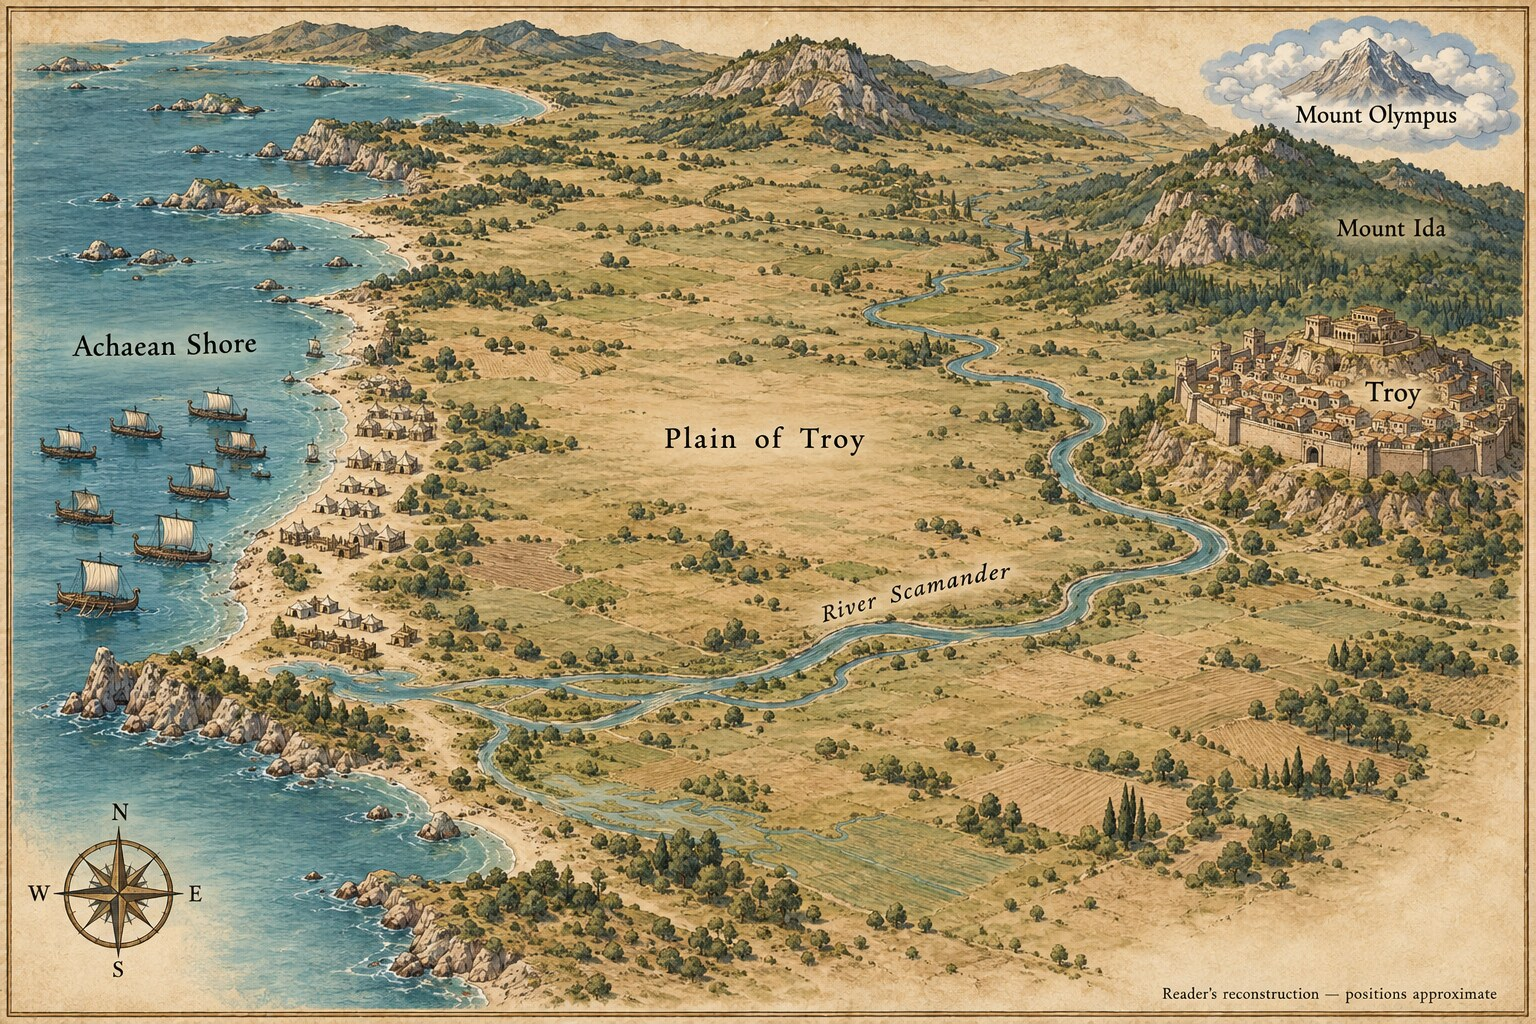
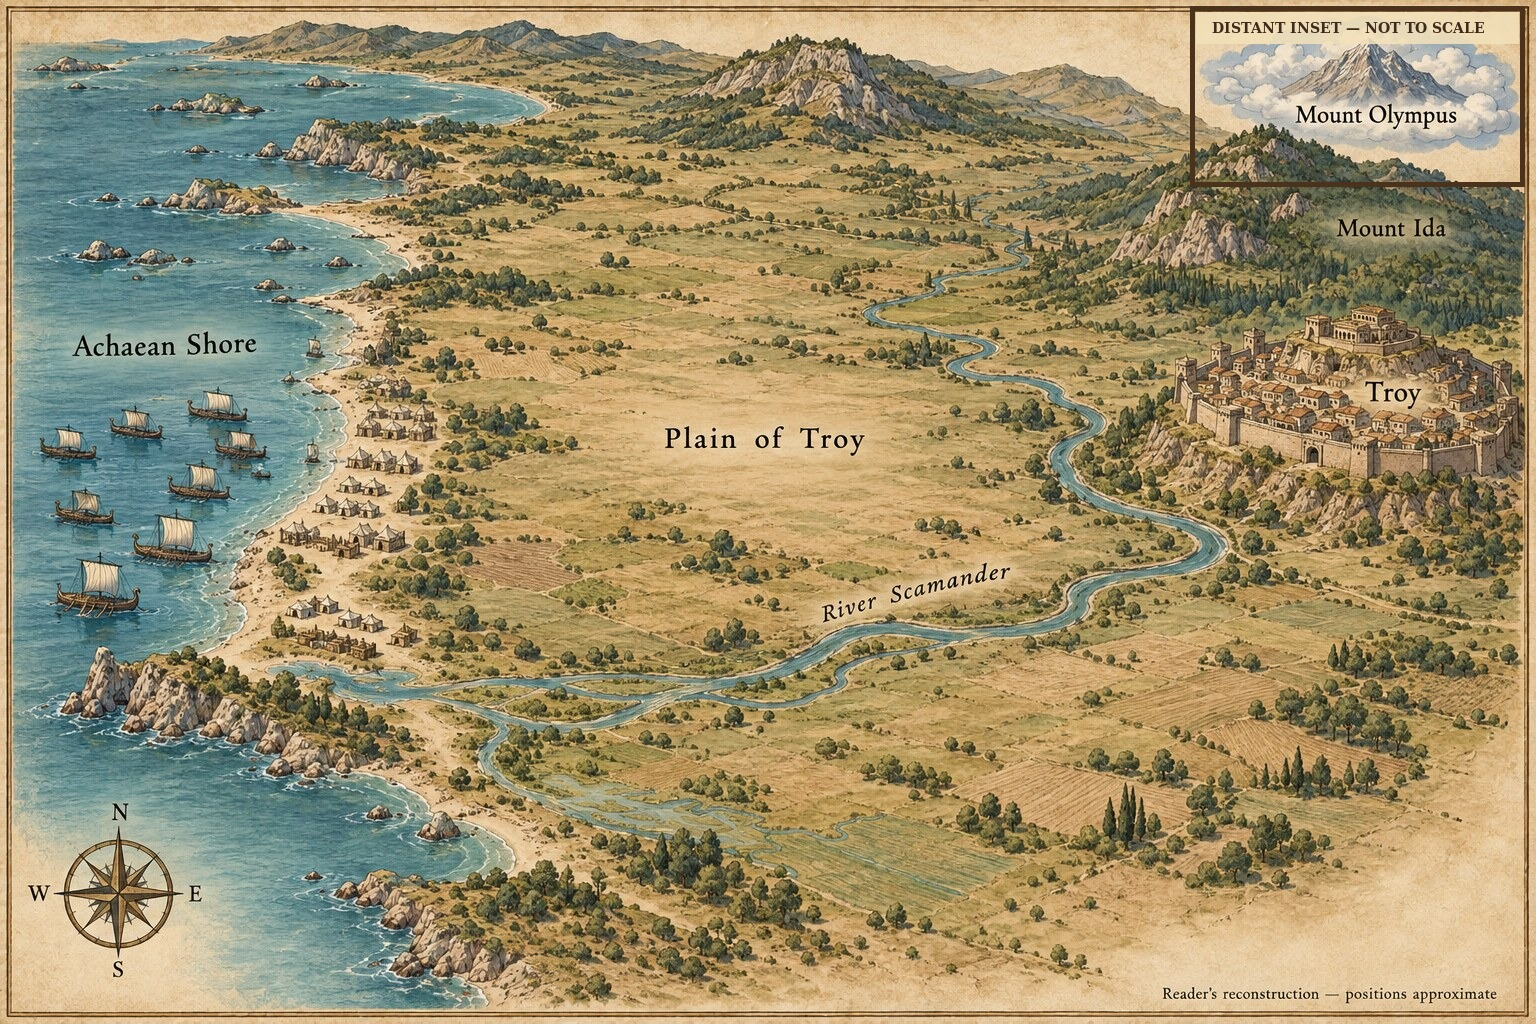
Correct Mount Olympus geography on Iliad Troad map

Changed region(s): [[0.75, 0.0, 1.0, 0.1875]]

diff --git a/scripts/iliad/CONTINUITY-AUDIT.md b/scripts/iliad/CONTINUITY-AUDIT.md
@@ -61,9 +61,9 @@ intercuts those actions. Together the event drafts contain 151,957 words.
 
 The hierarchy is Troad root → Troy and Troad root → Achaean Camp. Each submap
 has one parent gateway and contains its story-relevant locations. Snapshot map
-assignments follow this hierarchy. The root map image remains rejected because
-it depicts Mount Olympus beside Troy; data structure validity does not excuse
-that geographical defect.
+assignments follow this hierarchy. The root map now separates Mount Olympus
+from the Troad geography in a bordered distant inset explicitly marked not to
+scale; the main layer retains Troy, Mount Ida, Scamander, the plain and shore.
 
 ## Automated evidence
 
@@ -73,13 +73,12 @@ that geographical defect.
 - `node scripts/generate-iliad-example.mjs`: passed and preserved both PWKs and
   exact catalogue metadata.
 - `node scripts/validate-iliad-example.mjs`: correctly fails the release gate
-  while 23 expected files are missing and two existing files require replacement.
+  while 23 expected files are missing and the existing cover requires replacement.
 
 ## Open gates
 
 The Agenor and Thersites portraits, ten location images, ten item images, final
-per-image review, a geographically corrected Troad map, the Troy map, the
-Neoclassical cover replacement, and the complete in-app
+per-image review, the Troy map, the Neoclassical cover replacement, and the complete in-app
 reading/unrestricted pass remain incomplete. The managed browser could not
 reach the container-local application, so no page, gateway, marker or playback
 claim is made here.

diff --git a/scripts/iliad/ART-REVIEW.md b/scripts/iliad/ART-REVIEW.md
@@ -25,8 +25,10 @@ separate assets.
   illustrations. They depict separate locations or story subjects and are not
   used as navigable maps.
 - Opened both recovered navigable maps. The Achaean Camp map is a legible,
-  purpose-specific schematic with distinct camp sectors. The Troad root map is
-  legible but fails geography because it places Mount Olympus beside Troy.
+  purpose-specific schematic with distinct camp sectors. The Troad root map
+  now isolates Mount Olympus inside a bordered `DISTANT INSET — NOT TO SCALE`
+  panel; Troy, Mount Ida, Scamander, the plain and the Achaean shore remain on
+  the main navigable geography. The corrected label is complete and legible.
 - Opened the cover. Its scene and chronology fit Book XXIV, but the finish is
   too close to photography for the required painted Neoclassical direction.
 
@@ -43,8 +45,6 @@ in `asset-manifest.json`.
   Achaean Ships, Achaean Wall and Ditch and Myrmidon Open Ground.
 - Ten object illustrations, one for every modeled object.
 - The Troy navigable submap.
-- Replacement of the root Troad map with geographically correct handling of
-  distant Mount Olympus.
 - Replacement of the cover with a clearly painted Neoclassical treatment.
 
 ## Validation still required
